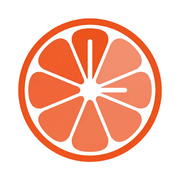
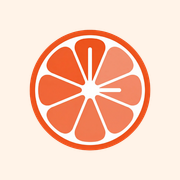
PWA-1: Froot as a home-screen app on iPad
TIER 2. No schema, permission, API route or dependency change.

Manifest (src/app/manifest.ts): adds id "/" and scope "/"; start_url
stays /dashboard, which works for every role (signed out -> /sign-in,
no org -> org picker -> /dashboard, HR employee login -> /my).
background_color and theme_color move from white / brand orange to
Froot's cream, #fff3e8 = --color-background oklch(97% .02 65), held in
src/lib/froot-cream.ts. Icons: 192, 512 and a 512 maskable in
public/icons/, replacing the transparent 500px /icon.png entry.

Icons: every tile is solid cream with the slice centred, no alpha
(iOS composites alpha on black). 15% padding; maskable 20%, inside the
80% safe circle. src/app/apple-icon.png regenerated the same way. This
replaces c473b72's WHITE tile: its reason was that the mark's opaque
white pith "draws a visible seam" on a warm tile, but measured, all of
the mark's white sits inside its orange ring (the only transparency is
the corners outside the circle), so the tile never touches it.
Generated with the sharp Next already ships; the script is not
committed.

Root layout: viewport.themeColor = the same cream. viewportFit is NOT
cover; statusBarStyle stays "default". FIX NOW: Next 16.2.9 renders
appleWebApp.capable as the unprefixed mobile-web-app-capable only
(next/dist/esm/lib/metadata/metadata.js:587), so the
apple-mobile-web-app-capable tag TAB-1's comment counted on for older
iOS was never emitted. Added via metadata.other; both now render.
[…]

Changed region(s): [[0.0833, 0.0833, 0.9167, 0.9167]]

diff --git a/src/app/manifest.ts b/src/app/manifest.ts
@@ -1,4 +1,5 @@
 import type { MetadataRoute } from "next"
+import { FROOT_CREAM } from "@/lib/froot-cream"
 
 // KEEP THIS AS manifest.ts, NOT manifest.json.
 //
@@ -9,22 +10,35 @@ import type { MetadataRoute } from "next"
 // to match it), so Clerk would 307 it to the sign-in page and the home-screen
 // install would silently get an HTML document instead of a manifest. Same trap
 // robots.ts sits in.
+
 export default function manifest(): MetadataRoute.Manifest {
   return {
     name: "Froot",
     short_name: "Froot",
     description:
       "Operational execution and accountability platform for multi-store franchises",
-    // Land in the app, not on the marketing page. Unauthenticated this redirects
-    // to /sign-in, which is correct. Note iOS often launches whatever URL was on
-    // screen at Add-to-Home-Screen time rather than start_url, so add the tile
-    // while on /dashboard.
+    // PWA-1 — a stable identity for the installed app, independent of start_url.
+    id: "/",
+    // Land in the app, not on the marketing page. /dashboard works for every
+    // role: unauthenticated it redirects to /sign-in; no org shows the org
+    // picker (which itself returns to /dashboard); an HR employee login is
+    // redirected to /my by the (app) layout. Note iOS often launches whatever URL
+    // was on screen at Add-to-Home-Screen time rather than start_url, so add the
+    // tile while on /dashboard.
     start_url: "/dashboard",
+    scope: "/",
     // Full screen, no Safari chrome — these are counter terminals. See the
-    // commit message for what this changes about sign-in.
+    // commit message of 28bbd8a for what this changes about sign-in.
     display: "standalone",
-    background_color: "#ffffff",
-    theme_color: "#f0532b", // oklch(65% .2 35), the primary brand colour
-    icons: [{ src: "/icon.png", sizes: "500x500", type: "image/png" }],
+    background_color: FROOT_CREAM,
+    theme_color: FROOT_CREAM,
+    // PWA-1 — solid cream tiles, slice centred (~15% padding; maskable ~20% so
+    // the mark stays inside the 80% safe circle). No alpha: iOS composites a
+    // transparent icon on black.
+    icons: [
+      { src: "/icons/icon-192.png", sizes: "192x192", type: "image/png" },
+      { src: "/icons/icon-512.png", sizes: "512x512", type: "image/png" },
+      { src: "/icons/icon-maskable-512.png", sizes: "512x512", type: "image/png", purpose: "maskable" },
+    ],
   }
 }

diff --git a/src/components/layout/standalone-tablet-default.tsx b/src/components/layout/standalone-tablet-default.tsx
@@ -1,0 +1,44 @@
+"use client"
+
+import { useEffect } from "react"
+import { useRouter } from "next/navigation"
+import { writeViewCookie } from "@/lib/view-mode"
+
+// PWA-1 (2026-11-11) — DRAFT ruling R1, awaiting Gary at PRE-PUSH-CHECK:
+// "When Froot is opened from the iPad home screen icon and nothing is saved on
+// that device yet, it opens in Tablet mode. Once someone picks Tablet or Desktop
+// on that device, their choice always wins. Opening Froot in Safari or on a
+// computer stays Desktop by default and never switches on its own."
+//
+// Mounted by src/app/(app)/layout.tsx ONLY in the desktop branch and ONLY when
+// hasSavedViewMode() is false, so a saved choice never reaches this code. If the
+// page is running as a home-screen app, it saves "tablet" (making it a saved
+// choice like any other — the switch can change it and that sticks) and
+// re-renders the layout, which now draws the tablet shell.
+//
+// Detection is display-mode only, never the user agent or the viewport:
+// `(display-mode: standalone)` for the manifest's display:"standalone", and
+// navigator.standalone for older iOS, which sets it on a home-screen launch.
+//
+// The server cannot see display-mode, so the very first home-screen launch on a
+// device paints Desktop for one render before the refresh lands. Once per
+// device: from then on the cookie is set and the server draws Tablet first.
+//
+// No state is set here (react-hooks/set-state-in-effect): the effect only
+// writes a cookie and asks the router to refresh.
+function launchedFromHomeScreen(): boolean {
+  return (
+    window.matchMedia("(display-mode: standalone)").matches ||
+    (navigator as Navigator & { standalone?: boolean }).standalone === true
+  )
+}
+
+export function StandaloneTabletDefault() {
+  const router = useRouter()
+  useEffect(() => {
+    if (!launchedFromHomeScreen()) return
+    writeViewCookie("tablet")
+    router.refresh()
+  }, [router])
+  return null
+}

diff --git a/src/app/(app)/layout.tsx b/src/app/(app)/layout.tsx
@@ -10,7 +10,8 @@ import { resolveSelfStaff } from "@/lib/hr"
 import { can } from "@/lib/permissions"
 import { UsageBeacon } from "@/components/usage-beacon"
 import { TabletShell } from "@/components/layout/tablet-shell"
-import { getViewMode } from "@/lib/view-mode-server"
+import { getViewMode, hasSavedViewMode } from "@/lib/view-mode-server"
+import { StandaloneTabletDefault } from "@/components/layout/standalone-tablet-default"
 
 export default async function AppLayout({ children }: { children: React.ReactNode }) {
   const { orgId, userId } = await auth()
@@ -148,7 +149,7 @@ export default async function AppLayout({ children }: { children: React.ReactNod
   // TAB-1 — the per-device Tablet/Desktop switch (Gary's ruling 2). Read from
   // the `froot_view` cookie HERE so the right shell is on first paint; absent
   // means desktop, and the desktop branch below is unchanged.
-  const viewMode = await getViewMode()
+  const [viewMode, viewSaved] = await Promise.all([getViewMode(), hasSavedViewMode()])
   if (viewMode === "tablet") {
     // The rail shows the store name from the dashboard's own store selection,
     // so it needs the stores this login can see — the same scope rule as
@@ -205,6 +206,11 @@ export default async function AppLayout({ children }: { children: React.ReactNod
         selfHref={selfHref}
       />
       <AppShell>{children}</AppShell>
+      {/* PWA-1 — nothing saved on this device yet: if this is a home-screen
+          launch, save Tablet and redraw (draft ruling R1). Absent once any
+          choice is saved, so the switch always wins. Safari and desktop
+          browsers fall through it untouched. */}
+      {!viewSaved && <StandaloneTabletDefault />}
       {/* ENG-1. Renders nothing; beacons the pathname on every route change.
           Mounted here rather than inside AppShell so it is unaffected by the
           sidebar-collapse state AppShell owns. */}

diff --git a/src/lib/view-mode.ts b/src/lib/view-mode.ts
@@ -8,14 +8,33 @@
 // Nothing in this file inspects the user agent or the viewport. Only the switch
 // writes the cookie, and only a tap on the switch calls it.
 //
-// Pure constants + a parser, so client and server components can both import
-// it. The server read lives in view-mode-server.ts (next/headers is server-only).
+// PWA-1 (2026-11-11, DRAFT ruling R1 amending ruling 2 above): ONE exception.
+// Launched from the home-screen icon (display-mode standalone) with NO choice
+// saved on this device, Froot opens in Tablet — written once by
+// src/components/layout/standalone-tablet-default.tsx. A saved choice always
+// wins, and Safari / desktop browsers still default Desktop and never switch.
+// Still no user-agent or viewport sniffing.
+//
+// Pure constants + parsers, so client and server components can both import
+// it (plus writeViewCookie, which touches `document` and is client-only). The server read lives in view-mode-server.ts (next/headers is server-only).
 
 export const VIEW_COOKIE = "froot_view"
 export type ViewMode = "tablet" | "desktop"
 
 /** One year, in seconds — the cookie's max-age. */
 export const VIEW_COOKIE_MAX_AGE = 60 * 60 * 24 * 365
+
+/** Client-only: save this device's view. The switch and the PWA-1 home-screen
+ *  default both write through here, so the cookie has one shape. */
+export function writeViewCookie(mode: ViewMode) {
+  document.cookie = `${VIEW_COOKIE}=${mode}; path=/; max-age=${VIEW_COOKIE_MAX_AGE}; samesite=lax`
+}
+
+/** PWA-1 — a choice is saved only when the cookie holds one of the two modes.
+ *  Absent, blank or junk counts as "nothing saved". */
+export function isSavedViewMode(value: string | undefined | null): boolean {
+  return value === "tablet" || value === "desktop"
+}
 
 /** Anything but the literal "tablet" is desktop — absent, blank or junk. */
 export function parseViewMode(value: string | undefined | null): ViewMode {

diff --git a/src/app/layout.tsx b/src/app/layout.tsx
@@ -1,5 +1,6 @@
-import type { Metadata } from "next"
+import type { Metadata, Viewport } from "next"
 import { ClerkProvider } from "@clerk/nextjs"
+import { FROOT_CREAM } from "@/lib/froot-cream"
 import "./globals.css"
 
 export const metadata: Metadata = {
@@ -22,6 +23,22 @@ export const metadata: Metadata = {
   // purpose, or not at all. A home-screen launch keeps its own cookie jar, so
   // the crew signs in once and picks Tablet again inside the home-screen app.
   appleWebApp: { title: "Froot", capable: true, statusBarStyle: "default" },
+  // PWA-1 (2026-11-11) — the premise above that this meta tag reaches older iOS
+  // was not true of this Next. 16.2.9 renders `capable` as the UNPREFIXED
+  // `mobile-web-app-capable` only (node_modules/next/dist/esm/lib/metadata/
+  // metadata.js:587), so `apple-mobile-web-app-capable` — the name older iOS
+  // reads — was never in the head. Emitted explicitly here, alongside the
+  // unprefixed one; both say the same thing as manifest.ts display:"standalone".
+  other: { "apple-mobile-web-app-capable": "yes" },
+}
+
+// PWA-1 (2026-11-11) — the browser/status-bar tint, the same cream as the
+// manifest. viewportFit is deliberately NOT "cover": with statusBarStyle
+// "default" iOS keeps the status bar as dark text on light and keeps content out
+// of the status-bar and home-indicator areas itself, so no safe-area padding is
+// needed. ("black-translucent" would draw white status text over a cream app.)
+export const viewport: Viewport = {
+  themeColor: FROOT_CREAM,
 }
 
 export default function RootLayout({ children }: { children: React.ReactNode }) {

diff --git a/src/components/layout/view-switch.tsx b/src/components/layout/view-switch.tsx
@@ -4,15 +4,14 @@ import { useTransition } from "react"
 import { useRouter } from "next/navigation"
 import { Monitor, Tablet } from "lucide-react"
 import { cn } from "@/lib/utils"
-import { VIEW_COOKIE, VIEW_COOKIE_MAX_AGE, type ViewMode } from "@/lib/view-mode"
+import { writeViewCookie, type ViewMode } from "@/lib/view-mode"
 
 // TAB-1 — the Tablet/Desktop switch. Every role sees it (it changes how this
 // device draws Froot, never what anyone may see or do). A tap writes the
 // per-device cookie and refreshes, and the (app) layout renders the other shell.
-// This is the ONLY writer of the cookie: nothing switches automatically.
-function setView(mode: ViewMode) {
-  document.cookie = `${VIEW_COOKIE}=${mode}; path=/; max-age=${VIEW_COOKIE_MAX_AGE}; samesite=lax`
-}
+// Nothing switches automatically — the one PWA-1 exception (home-screen launch,
+// nothing saved yet) is standalone-tablet-default.tsx, and it never overrides a
+// choice made here.
 
 export function ViewSwitch({
   current,
@@ -27,7 +26,7 @@ export function ViewSwitch({
 
   function choose(mode: ViewMode) {
     if (mode === current || pending) return
-    setView(mode)
+    writeViewCookie(mode)
     startTransition(() => router.refresh())
   }
 

diff --git a/src/lib/view-mode-server.ts b/src/lib/view-mode-server.ts
@@ -1,8 +1,15 @@
 import "server-only"
 import { cookies } from "next/headers"
-import { VIEW_COOKIE, parseViewMode, type ViewMode } from "./view-mode"
+import { VIEW_COOKIE, isSavedViewMode, parseViewMode, type ViewMode } from "./view-mode"
 
 /** TAB-1 — this device's saved view. `desktop` when the cookie is absent. */
 export async function getViewMode(): Promise<ViewMode> {
   return parseViewMode((await cookies()).get(VIEW_COOKIE)?.value)
+}
+
+/** PWA-1 — has this device saved a choice at all? `getViewMode()` folds
+ *  "absent" into desktop, which is right for rendering; this is the one
+ *  question that needs them apart (the home-screen Tablet default). */
+export async function hasSavedViewMode(): Promise<boolean> {
+  return isSavedViewMode((await cookies()).get(VIEW_COOKIE)?.value)
 }

diff --git a/src/lib/froot-cream.ts b/src/lib/froot-cream.ts
@@ -1,0 +1,9 @@
+// PWA-1 (2026-11-11) — Froot's cream page background, --color-background
+// oklch(97% .02 65) in src/app/globals.css, as the literal hex it resolves to.
+// The web app manifest and the theme-color meta cannot read CSS variables.
+//
+// Used by: src/app/manifest.ts (background_color, theme_color),
+// src/app/layout.tsx (viewport.themeColor), and baked into the icon tiles
+// (src/app/apple-icon.png, public/icons/*.png). If the token changes, change
+// this and regenerate the icons.
+export const FROOT_CREAM = "#fff3e8"
